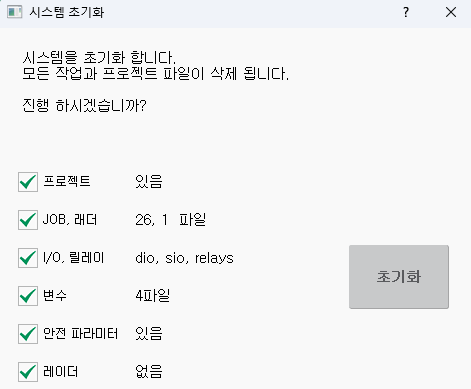
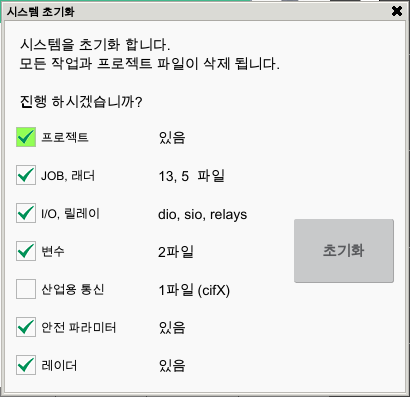
[HIAS-166] 시스템 초기화 시 CifX 설정 초기화 옵션 추가

diff --git a/7-system/6-initialization/1-system-format.md b/7-system/6-initialization/1-system-format.md
@@ -50,6 +50,13 @@
     </tr>
     <tr>
       <td style="text-align:left">
+        산업용 통신
+      </td>
+      <td style="text-align:left">산업용 통신(cifX 카드) 설정의 초기화 여부입니다.
+      </td>
+    </tr>
+    <tr>
+      <td style="text-align:left">
         안전 파라미터
       </td>
       <td style="text-align:left">안전 파라미터로 설정된 정보의 초기화 여부입니다.
